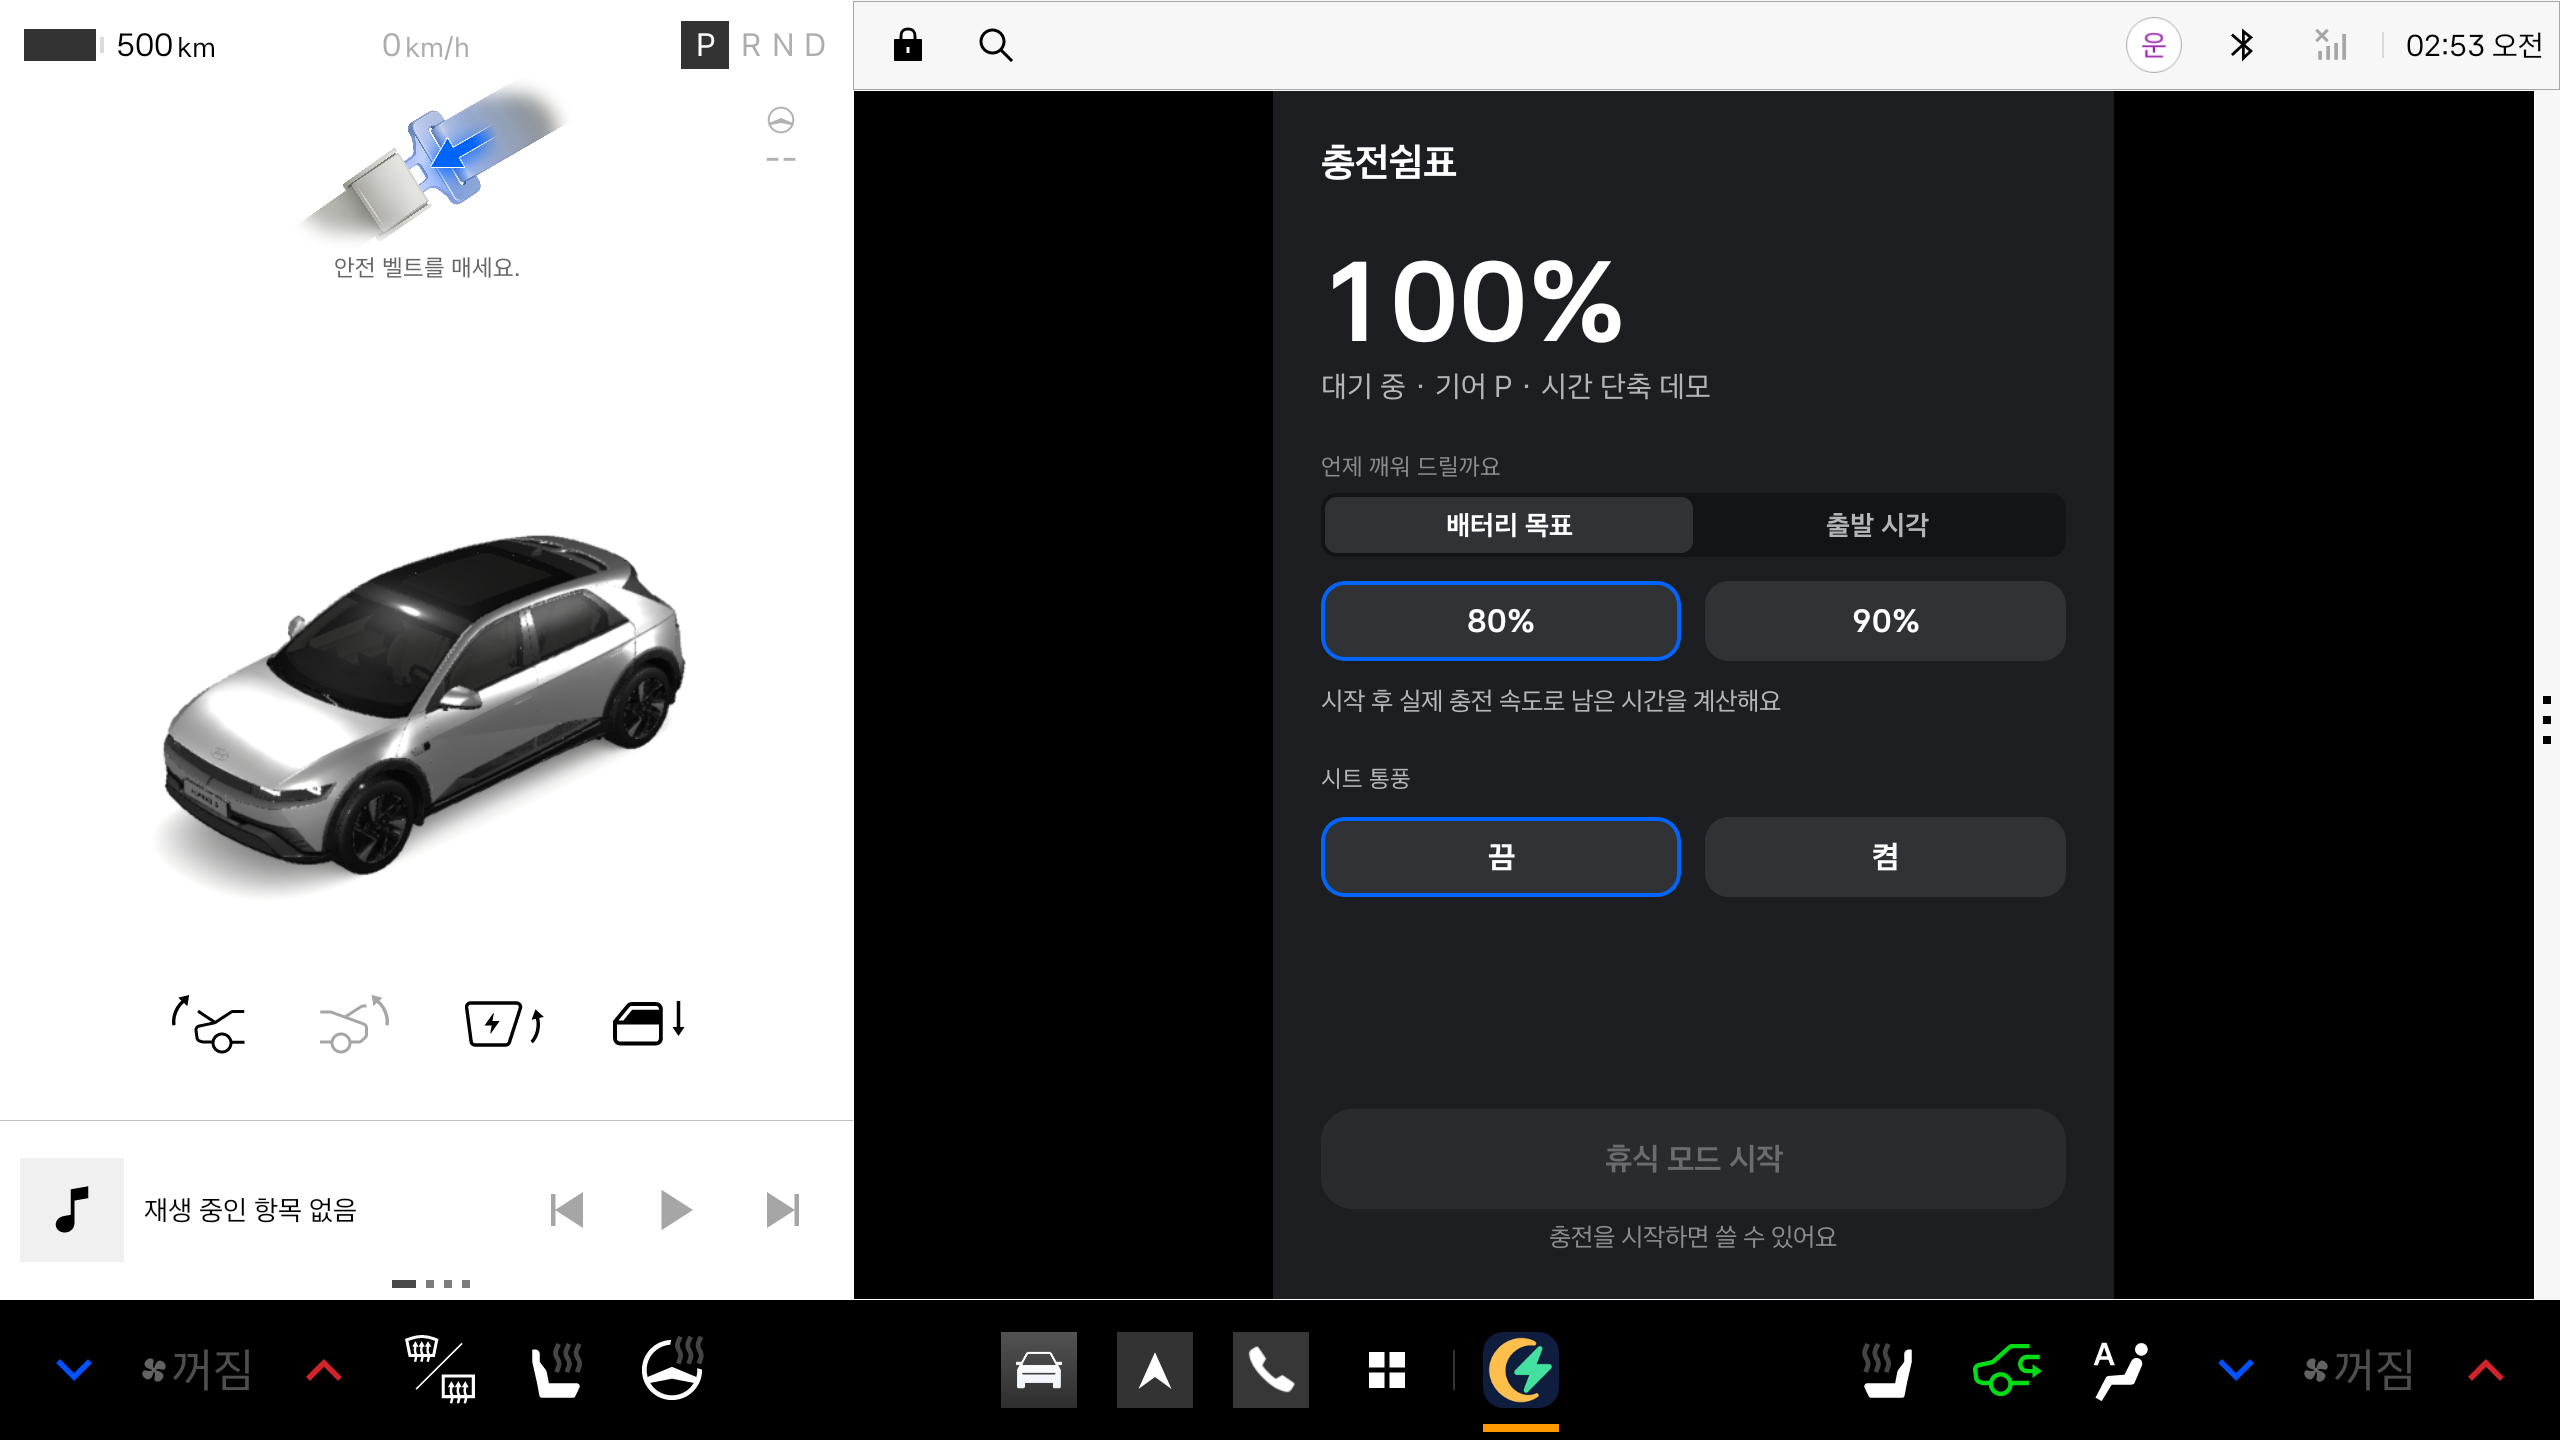
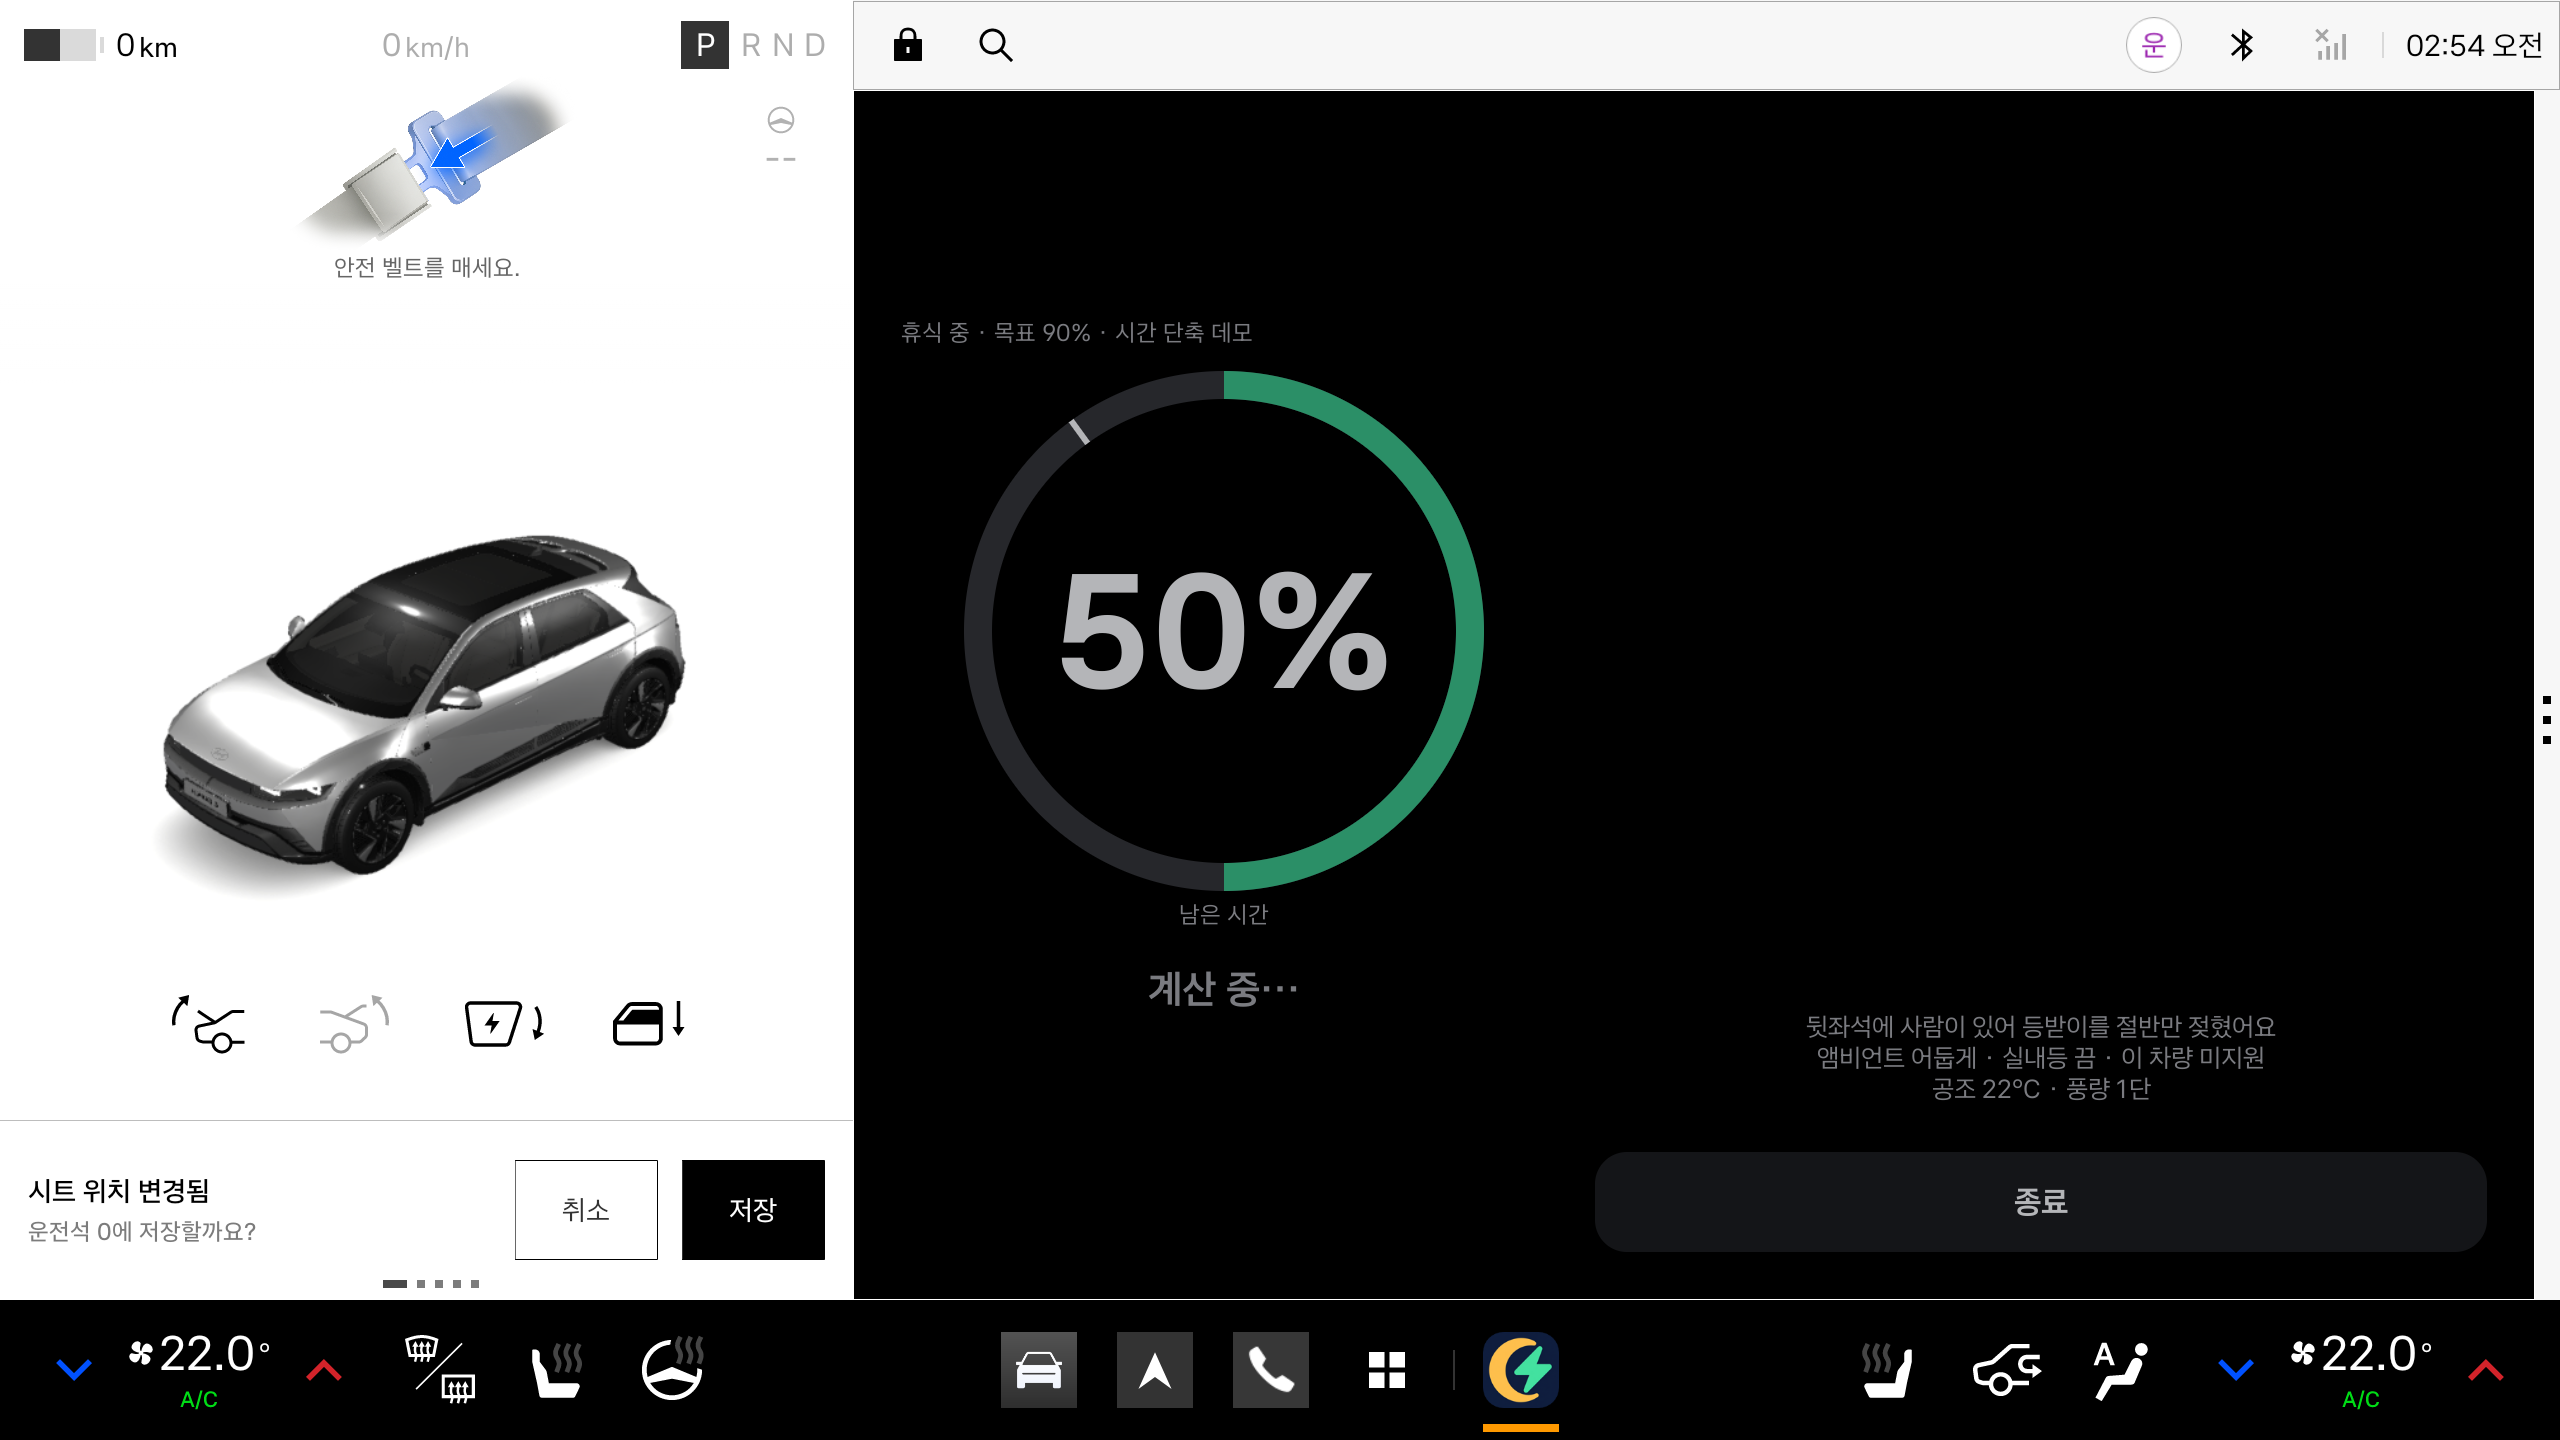
app: 가로 레이아웃 정리 — 상태|구분선|조작 세로 중앙, 버튼 하단 고정 해제

diff --git a/app/src/main/java/ai/pleos/plugrest/ui/Screens.kt b/app/src/main/java/ai/pleos/plugrest/ui/Screens.kt
@@ -113,14 +113,18 @@ fun Segmented(options: List<String>, selected: Int, onSelect: (Int) -> Unit, mod
 fun Screen(
     bg: Color, modifier: Modifier = Modifier,
     hero: (@Composable androidx.compose.foundation.layout.ColumnScope.() -> Unit)? = null,
-    content: @Composable androidx.compose.foundation.layout.ColumnScope.() -> Unit,
+    content: @Composable androidx.compose.foundation.layout.ColumnScope.(wide: Boolean) -> Unit,
 ) {
     BoxWithConstraints(modifier.fillMaxSize().background(bg)) {
-        if (hero != null && maxWidth >= WIDE_MIN) Row(Modifier.fillMaxSize().padding(D.screenPad)) {
-            Column(Modifier.weight(0.42f).fillMaxHeight(), verticalArrangement = Arrangement.Center, content = hero)
-            Spacer(Modifier.width(D.section))
-            Column(Modifier.weight(0.58f).fillMaxHeight(), content = content)
-        } else Column(Modifier.fillMaxSize().padding(D.screenPad)) { hero?.invoke(this); content() }
+        val wide = hero != null && maxWidth >= WIDE_MIN
+        if (wide) Row(Modifier.fillMaxSize().padding(horizontal = D.screenPad * 1.5f, vertical = D.screenPad)) {
+            // 왼쪽: 상태(hero) 세로 중앙. 오른쪽: 조작 묶음 + 버튼을 세로 중앙에 모아 빈 공간 제거(가로 전용 리듬)
+            Column(Modifier.weight(0.44f).fillMaxHeight(), verticalArrangement = Arrangement.Center, content = hero!!)
+            Spacer(Modifier.width(D.screenPad))
+            Box(Modifier.width(2.dp).fillMaxHeight(0.6f).align(Alignment.CenterVertically).background(C.surface))
+            Spacer(Modifier.width(D.screenPad * 1.5f))
+            Column(Modifier.weight(0.56f).fillMaxHeight(), verticalArrangement = Arrangement.Center) { content(true) }
+        } else Column(Modifier.fillMaxSize().padding(D.screenPad)) { hero?.invoke(this); content(false) }
     }
 }
 private val WIDE_MIN = 1100.dp
@@ -185,7 +189,7 @@ fun IdleScreen(s: VehicleState, blockReason: String?, rates: ChargeRateMemory, o
             } + DEMO_TAG, style = T.bodyL, color = C.textSecondary,
         )
         Spacer(Modifier.height(D.section))
-    }) {
+    }) { wide ->
         Text("언제 깨워 드릴까요", style = T.labelM, color = C.textTertiary)
         Spacer(Modifier.height(D.gap / 2))
         Segmented(listOf("배터리 목표", "출발 시각"), if (departure) 1 else 0, { departure = it == 1 })
@@ -210,7 +214,7 @@ fun IdleScreen(s: VehicleState, blockReason: String?, rates: ChargeRateMemory, o
             Chip("끔", seat == SeatMode.NONE, { seat = SeatMode.NONE }, Modifier.weight(1f))
             if (Feature.SEAT_VENT !in s.unsupported) Chip("켬", seat == SeatMode.VENT, { seat = SeatMode.VENT }, Modifier.weight(1f))
         }
-        Spacer(Modifier.weight(1f))
+        if (wide) Spacer(Modifier.height(D.section)) else Spacer(Modifier.weight(1f))
         BigButton("휴식 모드 시작", { if (departure) onStart(100, seat, departMin) else onStart(target, seat, 0) }, enabled = blockReason == null)
         Spacer(Modifier.height(D.gap / 2))
         Text(blockReason ?: if (departure) "${departMin}분 후에 깨워 드릴게요" else "목표 $target%에 도달하면 깨워 드릴게요", style = T.bodyS, color = C.textTertiary, textAlign = TextAlign.Center, modifier = Modifier.fillMaxWidth())
@@ -255,8 +259,8 @@ fun RestingScreen(p: Phase.Resting, s: VehicleState, remaining: Int?, learned: I
             if (remaining == null && learnedEta != null) Text("지난 충전 기준 약 ${learnedEta}분", style = T.bodyS, color = dim, textAlign = TextAlign.Center, modifier = Modifier.fillMaxWidth())
         }
         Spacer(Modifier.height(D.gap))
-    }) {
-        Spacer(Modifier.weight(1f))
+    }) { wide ->
+        if (!wide) Spacer(Modifier.weight(1f))
         // 디자인 ⑫ M1: 선라이즈 문구는 하단 상태줄 첫 줄(헤더의 데모 고지는 유지)
         if (p.sunrise) Text(if (Feature.AMBIENT in s.unsupported) "곧 깨워 드릴게요" else "곧 깨워 드릴게요 · 조명을 천천히 밝히는 중", style = T.bodyS.copy(fontWeight = FontWeight.Bold), color = C.restText, textAlign = TextAlign.Center, modifier = Modifier.fillMaxWidth())
         if (p.halfRecline) Text("뒷좌석에 사람이 있어 등받이를 절반만 젖혔어요", style = T.bodyS, color = dim, textAlign = TextAlign.Center, modifier = Modifier.fillMaxWidth())
@@ -271,7 +275,7 @@ fun RestingScreen(p: Phase.Resting, s: VehicleState, remaining: Int?, learned: I
             Text(label + if (f in s.unsupported) " · 이 차량 미지원" else "", style = T.bodyS, color = dim, textAlign = TextAlign.Center, modifier = Modifier.fillMaxWidth())
         }
         if (s.seatMoving) Text("시트 이동 중 · 화면을 누르면 멈춥니다", style = T.bodyS, color = dim, textAlign = TextAlign.Center, modifier = Modifier.fillMaxWidth())
-        Spacer(Modifier.height(D.section))
+        Spacer(Modifier.height(if (wide) D.section * 1.5f else D.section))
         BigButton("종료", onStop, bg = C.surfaceRest, fg = C.restText)
     }
 }
